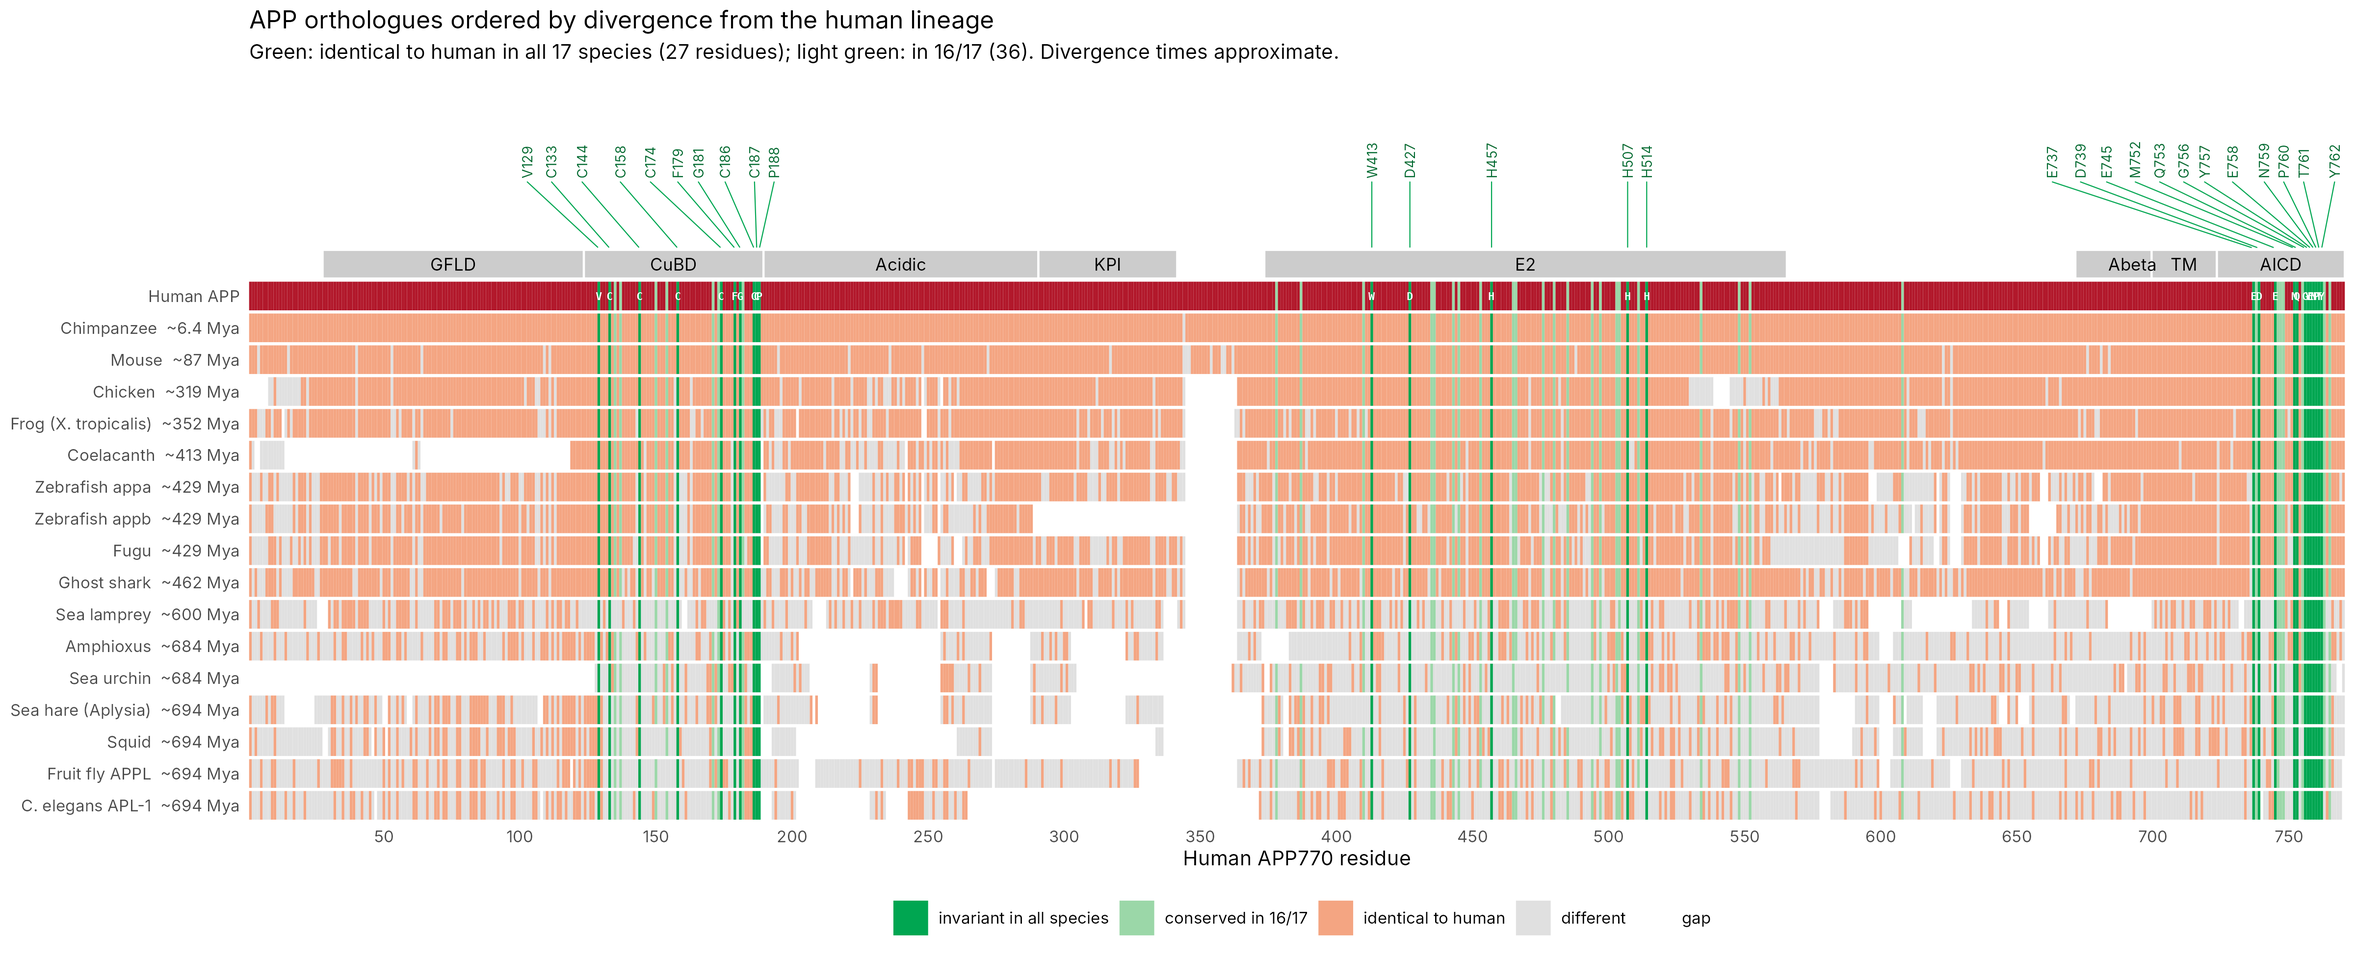
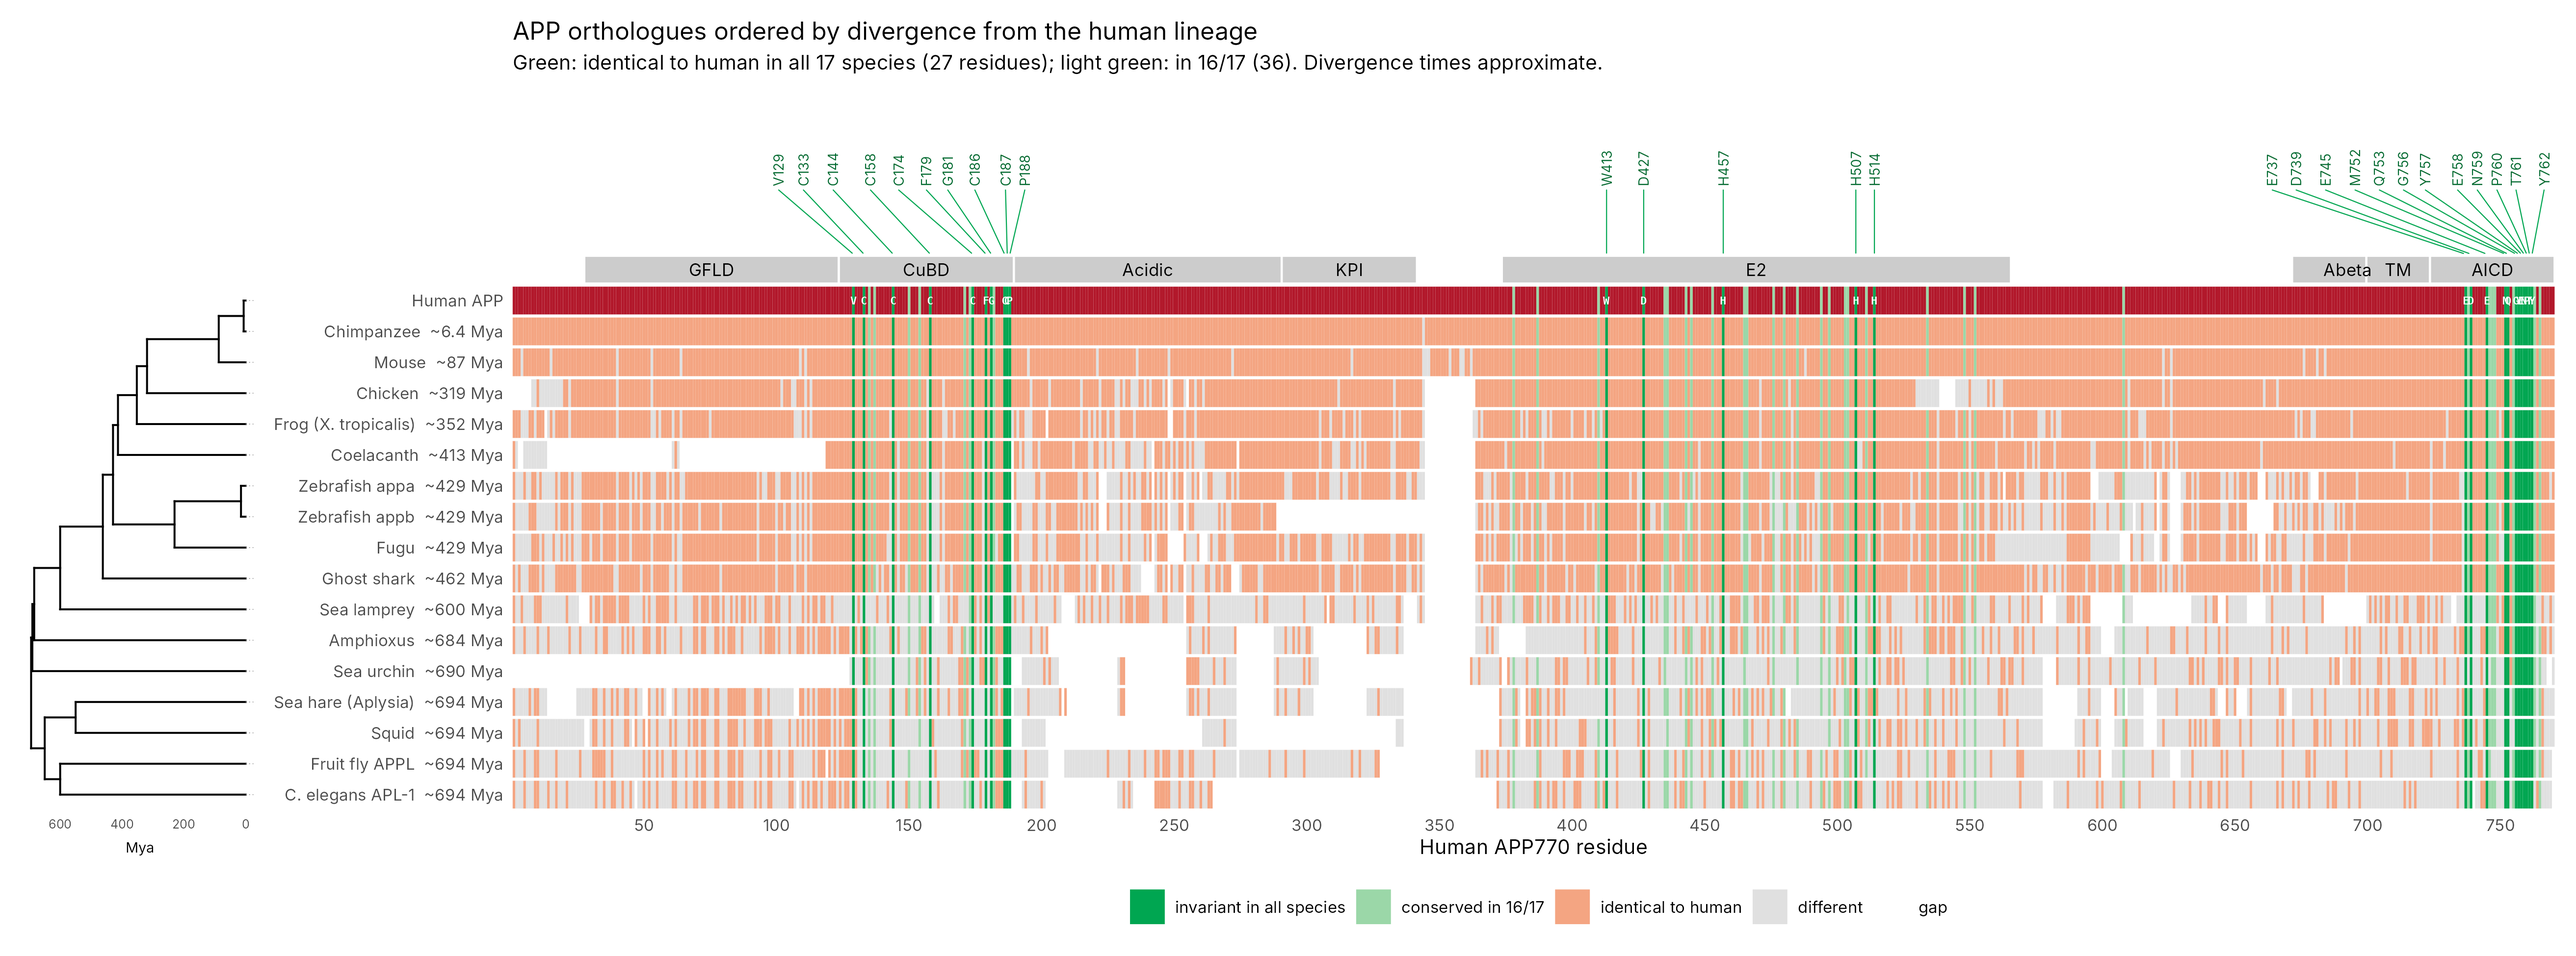
Add species tree aligned to rows; replace emoji with schematic silhouettes
Claude-Session: https://claude.ai/code/session_01DNpeWnaSHNG7EnKDYYP3oL

diff --git a/analysis/draw_icons.py b/analysis/draw_icons.py
@@ -1,0 +1,119 @@
+"""Simple monochrome organism silhouettes (scientific-figure style), one per alignment row."""
+from PIL import Image, ImageDraw
+import math, os
+W, H = 480, 320
+COL = (55, 65, 81, 255)
+os.makedirs('icons_sci', exist_ok=True)
+
+def canvas():
+    im = Image.new('RGBA', (W, H), (0, 0, 0, 0)); return im, ImageDraw.Draw(im)
+
+def E(d, cx, cy, rx, ry, **k): d.ellipse([cx-rx, cy-ry, cx+rx, cy+ry], fill=COL, **k)
+def P(d, pts): d.polygon(pts, fill=COL)
+def L(d, pts, w): d.line(pts, fill=COL, width=w, joint='curve')
+def rot(pts, cx, cy, a):
+    c, s = math.cos(a), math.sin(a)
+    return [(cx + (x-cx)*c - (y-cy)*s, cy + (x-cx)*s + (y-cy)*c) for x, y in pts]
+
+def save(im, n):
+    im = im.crop(im.getbbox()); im.save(f'icons_sci/{n:02d}.png')
+
+# 1 human (standing figure)
+im, d = canvas()
+E(d, 240, 40, 26, 28); P(d, [(205,75),(275,75),(290,175),(270,175),(262,110),(258,180),(222,180),(218,110),(210,175),(190,175)])
+P(d, [(222,178),(240,178),(238,300),(218,300)]); P(d, [(240,178),(258,178),(262,300),(242,300)]); save(im, 1)
+# 2 chimpanzee (knuckle-walking)
+im, d = canvas()
+E(d, 250, 150, 110, 55); E(d, 375, 115, 38, 36); E(d, 405, 125, 18, 14)
+L(d, [(170,170),(150,240),(160,300)], 30); L(d, [(220,190),(215,300)], 28)
+L(d, [(310,160),(340,230),(345,300)], 30); L(d, [(280,180),(290,300)], 26); save(im, 2)
+# 3 mouse
+im, d = canvas()
+E(d, 230, 180, 120, 70); E(d, 345, 165, 60, 45); P(d, [(390,150),(440,175),(390,190)])
+E(d, 330, 112, 30, 30); L(d, [(115,190),(60,230),(30,200),(10,215)], 10)
+L(d, [(190,240),(185,270)], 14); L(d, [(290,235),(300,265)], 14); save(im, 3)
+# 4 chicken
+im, d = canvas()
+E(d, 220, 170, 110, 75); P(d, [(120,150),(70,70),(110,90),(150,130)])
+L(d, [(290,140),(320,80)], 40); E(d, 330, 70, 32, 30); P(d, [(358,62),(395,75),(358,85)])
+P(d, [(318,40),(330,22),(340,40),(350,26),(355,45)]); L(d, [(200,240),(195,300),(175,305)], 9)
+L(d, [(240,240),(245,300),(265,305)], 9); save(im, 4)
+# 5 frog (crouched, side view)
+im, d = canvas()
+P(d, [(100,230),(170,140),(300,120),(380,150),(410,190),(380,215),(250,240)])
+E(d, 330, 125, 22, 20); L(d, [(170,225),(110,280),(190,285)], 22)
+L(d, [(330,205),(350,280),(380,285)], 14); save(im, 5)
+
+def fish(d, body, tail_h, dorsal=True, pect=True, lobed=False, cy=160):
+    x0, x1 = 90, 420
+    pts = []
+    for i in range(41):
+        t = i/40; x = x0 + (x1-x0)*t; h = body*math.sin(math.pi*t**0.8)
+        pts.append((x, cy - h))
+    for i in range(40, -1, -1):
+        t = i/40; x = x0 + (x1-x0)*t; h = body*0.85*math.sin(math.pi*t**0.8)
+        pts.append((x, cy + h))
+    P(d, pts)
+    P(d, [(x0+10, cy), (30, cy - tail_h), (55, cy), (30, cy + tail_h)])
+    if dorsal: P(d, [(220, cy - body*0.95), (250, cy - body - 40), (285, cy - body*0.9)])
+    if lobed:
+        for x in (210, 300):
+            E(d, x, cy + body*0.9 + 10, 22, 14)
+        E(d, 255, cy - body - 15, 20, 12)
+
+# 6 coelacanth (lobed fins, three-lobed tail)
+im, d = canvas(); fish(d, 70, 60, dorsal=False, lobed=True); E(d, 50, 160, 14, 10); save(im, 6)
+# 7/8 zebrafish (slender, forked tail, stripes left as body)
+for n in (7, 8):
+    im, d = canvas(); fish(d, 42, 45); P(d, [(240,200),(270,230),(300,200)]); save(im, n)
+# 9 fugu (round pufferfish)
+im, d = canvas(); E(d, 245, 160, 125, 105)
+P(d, [(125,160),(60,105),(75,160),(60,215)])
+for a in range(0, 360, 30):
+    r = math.radians(a); x, y = 245 + 125*math.cos(r), 160 + 105*math.sin(r)
+    if 120 < a < 240: continue
+    P(d, [(x, y), (x + 22*math.cos(r) - 6*math.sin(r), y + 22*math.sin(r) + 6*math.cos(r)), (x + 8*math.cos(r+1.5), y + 8*math.sin(r+1.5))])
+save(im, 9)
+# 10 shark
+im, d = canvas()
+P(d, [(450,170),(390,135),(250,125),(110,150),(40,95),(60,165),(30,215),(115,185),(250,200),(380,195)])
+P(d, [(240,128),(285,55),(300,128)]); P(d, [(300,195),(270,250),(340,195)]); save(im, 11 - 1)
+# 11 lamprey (eel-like, oral disc)
+im, d = canvas()
+pts = [(60 + i*9, 160 + 30*math.sin(i/6)) for i in range(42)]
+L(d, pts, 34); E(d, 440, 160 + 30*math.sin(41/6), 24, 24)
+P(d, [(250,140),(300,120),(340,140)]); save(im, 11)
+# 12 amphioxus (lancelet: pointed both ends, chevron hint)
+im, d = canvas()
+P(d, [(20,170),(120,140),(330,130),(460,165),(330,185),(120,190)])
+P(d, [(100,148),(80,120),(160,140)]); save(im, 12)
+# 13 sea urchin (spiny sphere)
+im, d = canvas(); E(d, 240, 170, 80, 70)
+for a in range(0, 360, 15):
+    r = math.radians(a); L(d, [(240 + 75*math.cos(r), 170 + 65*math.sin(r)), (240 + 140*math.cos(r), 170 + 130*math.sin(r))], 7)
+save(im, 13)
+# 14 sea hare (Aplysia: slug with rhinophores and parapodia)
+im, d = canvas()
+P(d, [(30,230),(120,150),(220,110),(320,130),(390,170),(430,230)])
+L(d, [(370,160),(395,95)], 12); L(d, [(395,165),(430,105)], 12); E(d, 230, 140, 75, 45); save(im, 14)
+# 15 squid
+im, d = canvas()
+P(d, [(20,160),(80,110),(110,130),(300,135),(330,160),(300,185),(110,190),(80,210)])
+E(d, 320, 160, 30, 30)
+for k, dy in enumerate((-30, -15, 0, 15, 30)):
+    L(d, [(340,160+dy*0.3),(400,160+dy),(460,160+dy*1.3)], 7)
+save(im, 15)
+# 16 fruit fly (top view)
+im, d = canvas()
+E(d, 240, 210, 40, 75); E(d, 240, 125, 34, 28); E(d, 240, 85, 26, 20)
+E(d, 222, 75, 9, 9, outline=None); E(d, 258, 75, 9, 9)
+for side in (-1, 1):
+    P(d, [(240 + side*25, 120), (240 + side*150, 190), (240 + side*120, 260), (240 + side*30, 170)])
+    for y0, y1 in ((115, 70), (130, 150), (145, 230)):
+        L(d, [(240 + side*30, y0), (240 + side*95, y1)], 6)
+save(im, 16)
+# 17 C. elegans (thin sinusoidal worm)
+im, d = canvas()
+pts = [(30 + i*10, 160 + 55*math.sin(i/5.5)) for i in range(43)]
+L(d, pts, 22); save(im, 17)
+print('done', len(os.listdir('icons_sci')))

diff --git a/analysis/compose.py b/analysis/compose.py
@@ -1,15 +1,22 @@
 from PIL import Image, ImageDraw, ImageFont
 FULL = Image.open('fig5_conservation_map.png').convert('RGB')
-W_MAP = FULL.crop((0, 0, FULL.width, 1720))
-LEG = FULL.crop((1700, 1780, 3600, 1920))
-X0, X1, YT, YB = 508, 4778, 560, 1675                                   # panel extents (px)
+W_MAP = FULL.crop((0, 0, FULL.width, FULL.height - 150))
+import numpy as np
+_a = np.array(FULL).astype(int)
+_red = (abs(_a[:,:,0]-0xB2)<6)&(abs(_a[:,:,1]-0x18)<6)&(abs(_a[:,:,2]-0x2B)<6)
+_ys, _xs = np.where(_red)
+X0, X1 = _xs.min(), _xs.max()                    # human row spans residues 1..770
+YT = _ys.min() - 15
+_col = _a[:, (X0 + X1)//2]; _nw = np.where(_col.sum(1) < 740)[0]; _nw = _nw[_nw > _ys.max()]
+YB = _nw[np.where(np.diff(_nw) > 30)[0][0]] + 5 if (np.diff(_nw) > 30).any() else _nw.max()
 px = lambda pos: X0 + (pos - 0.5) * (X1 - X0) / 770
 
 panels = [('zoomB_CCP.png', 148, 'A'), ('zoomF_GYENPTY.png', 728, 'B')]
 cols = ['#E69F00', '#D55E00']
 
 S = 0.9                                     # scale zoom panels (3900x2040 -> ~2418x1265)
-pw, ph = int(3900 * S), int(2040 * S)
+_w, _h = Image.open('zoomAbeta.png').size
+pw, ph = int(_w * S), int(_h * S)
 gx, gap_y = 150, 420
 W = 2 * pw + 3 * gx
 mapW = W - 2 * gx; ms = mapW / W_MAP.width

diff --git a/README.md b/README.md
@@ -64,7 +64,8 @@ mafft --localpair --maxiterate 1000 app_only.fasta > app_aln.fasta
 iqtree2 -s all_aln.fasta -m LG+G4 -B 1000 -T AUTO --prefix tree
 Rscript analysis.R                     # fig1-4 + conservation CSV
 Rscript zooms.R                        # fig5 + zoom panels (sources fig5.R)
+python3 draw_icons.py                  # organism silhouettes
 python3 compose.py                     # fig7 composite
 ```
 
-Organism icons are rendered from Noto Color Emoji (Apache 2.0).
+Organism silhouettes are drawn by `draw_icons.py`. The species tree in the alignment figures (`species_tree.R`) uses the accepted metazoan topology with approximate node ages; zebrafish appa/appb are drawn as a short paralogue fork.
